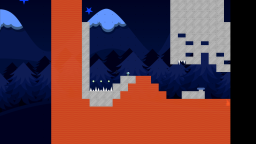
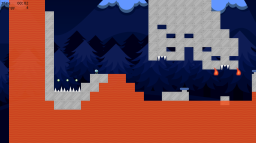
Implemented saving world preview screens at the beginning of a level.

diff --git a/src/unnamed_platformer/view/ViewManager.java b/src/unnamed_platformer/view/ViewManager.java
@@ -20,7 +20,9 @@ import java.io.File;
 import java.io.IOException;
 import java.nio.ByteBuffer;
 import java.util.ArrayList;
+import java.util.LinkedList;
 import java.util.List;
+import java.util.Queue;
 import java.util.regex.Pattern;
 
 import javax.imageio.ImageIO;
@@ -150,7 +152,6 @@ public final class ViewManager
 		if (gridSize < 1) {
 			return;
 		}
-
 		saveState();
 
 		if (color == null) {
@@ -315,17 +316,15 @@ public final class ViewManager
 
 		System.out.println("Saved screenshot to " + screenshotFile.getName());
 
-		// Save screenshot as the world preview if none exists yet
-		savePreviewImage(image);
 	}
 
-	private static void savePreviewImage(BufferedImage originalImage) {
+	public static void savePreviewImage() {
 		// Not currently playing
 		if (!World.playing()) {
 			return;
 		}
 
-		File previewImageFile = new File(ResManager.getFilename(
+		final File previewImageFile = new File(ResManager.getFilename(
 				ImageIcon.class, World.getName()));
 
 		// Preview image already exists
@@ -333,17 +332,36 @@ public final class ViewManager
 			return;
 		}
 
-		BufferedImage previewImage = ImageHelper.resizeToWidth(originalImage,
-				PREVIEW_IMAGE_WIDTH);
 
-		try {
-			ImageIO.write(previewImage, "PNG", previewImageFile);
-		} catch (IOException e) {
-			System.out
-					.println("Saving preview image failed: " + e.getMessage());
-			e.printStackTrace();
-		}
+		doWhenActive(new Runnable() {
+			public void run() {
+				try {
 
+					final BufferedImage previewImage = ImageHelper.resizeToWidth(
+							ViewManager.getScreenshot(), PREVIEW_IMAGE_WIDTH);
+
+					ImageIO.write(previewImage, "PNG", previewImageFile);
+					System.out.println("Saved preview image to "
+							+ previewImageFile.getName());
+				} catch (IOException e) {
+					System.out.println("Saving preview image failed: "
+							+ e.getMessage());
+					e.printStackTrace();
+				}
+			}
+		});
+
+	}
+
+	private static Queue<Runnable> displayActiveRunnables = new LinkedList<Runnable>();
+
+	/**
+	 * Schedules a method to be executed when display is next active
+	 * 
+	 * @param runnable
+	 */
+	private static void doWhenActive(Runnable runnable) {
+		displayActiveRunnables.add(runnable);
 	}
 
 	public static BufferedImage getScreenshot() {
@@ -613,6 +631,13 @@ public final class ViewManager
 
 		Display.sync(FPS);
 		Display.update();
+
+		if (Display.isActive() && Display.isVisible() && Display.getWidth() > 0
+				&& Display.getHeight() > 0) {
+			while (!displayActiveRunnables.isEmpty()) {
+				displayActiveRunnables.poll().run();
+			}
+		}
 	}
 
 	public static void clear() {

diff --git a/src/unnamed_platformer/game/other/Level.java b/src/unnamed_platformer/game/other/Level.java
@@ -39,9 +39,9 @@ public class Level
 		return new Rectangle(rect.getX(), rect.getY(), rect.getWidth(),
 				rect.getHeight());
 	}
-	
+
 	public Level() {
-		
+
 	}
 
 	public Level(LinkedList<Entity> origEntities, Rectangle levelRect) {
@@ -51,7 +51,6 @@ public class Level
 	public Level(LinkedList<Entity> origEntities) {
 		init(origEntities, Ref.DEFAULT_LEVEL_RECTANGLE);
 	}
-
 
 	private void init(LinkedList<Entity> origEntities, Rectangle levelRect) {
 		resetTo(EntityCreator.getSetupCollection(origEntities));
@@ -121,11 +120,17 @@ public class Level
 		// find player (if not already found)
 		if (playerEntity == null) {
 			setupPlayer();
-		}
+		} else {
 
-		// set start time if not yet set
-		if (startTime == null && playerEntity != null) {
-			startTime = TimeManager.time();
+			// The level has just started
+			if (startTime == null) {
+
+				// Set the start time if it hasn't yet been set
+				startTime = TimeManager.time();
+
+				// Save screenshot as the world preview if none exists yet
+				ViewManager.savePreviewImage();
+			}
 		}
 
 		Iterator<Entity> entityIterator = entities.iterator();
@@ -207,6 +212,7 @@ public class Level
 	public Graphic getBackgroundGraphic() {
 		return bgGraphic;
 	}
+
 	public void setBackgroundGraphic(Graphic graphic) {
 		bgGraphic = graphic;
 	}
@@ -275,6 +281,5 @@ public class Level
 	public List<EntitySetup> getEntitySetups() {
 		return entitySetups;
 	}
-
 
 }
